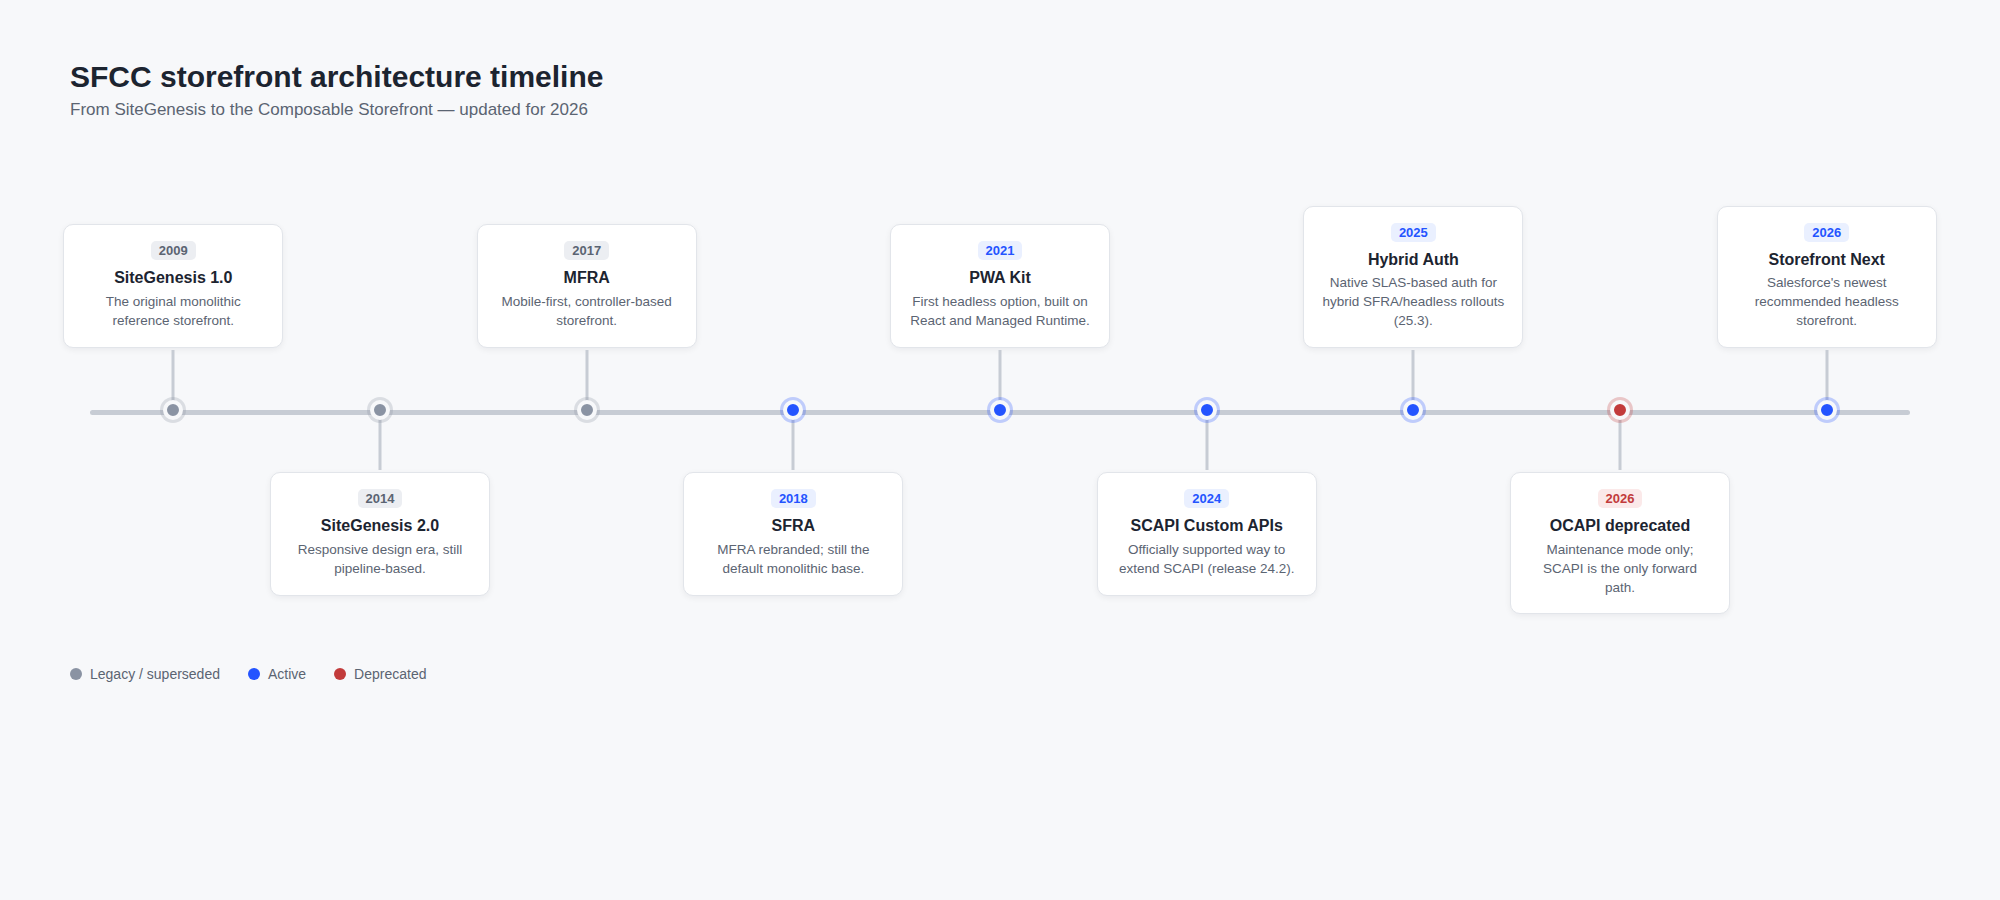
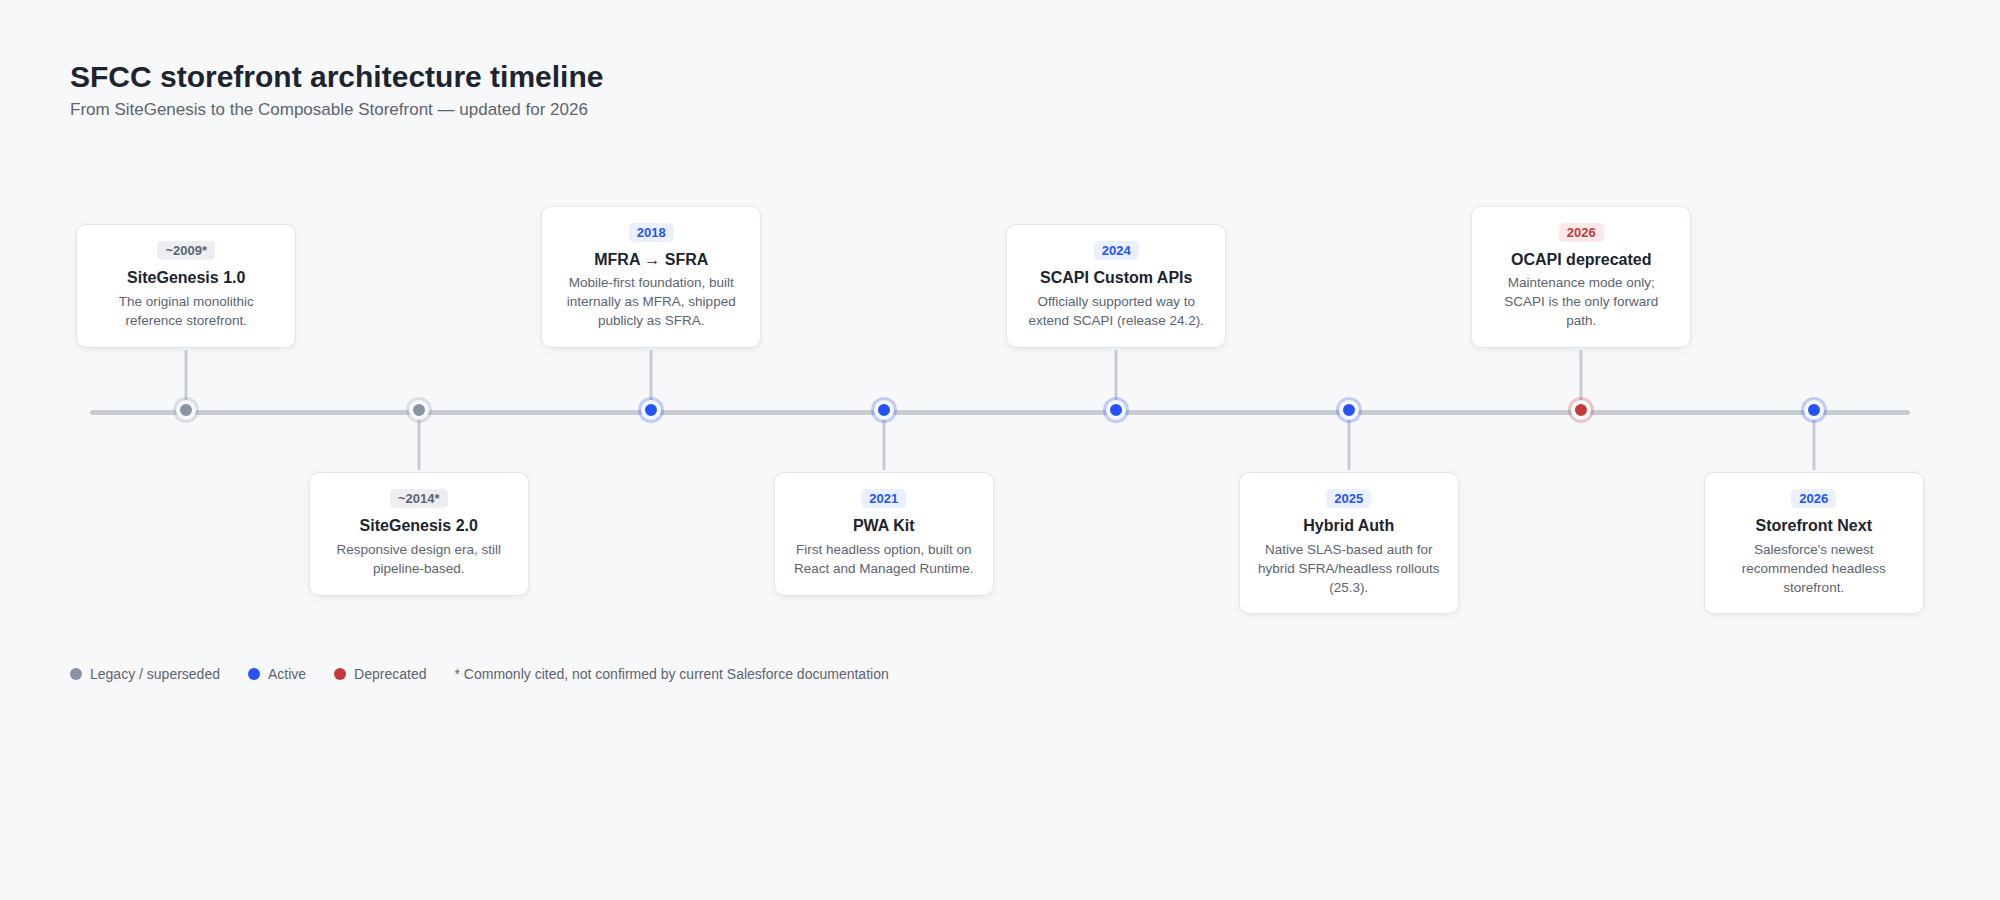
Correct claims a deep fact-check couldn't confirm against primary sources
Three parallel research agents checked every dated/technical claim in
the article against Salesforce's own Help/Developer docs rather than
this site's internal cross-references. Findings:

- The article contradicted itself: body text said MFRA was "born" in
  2016, the timeline diagram said 2017. Neither year has a primary
  source — current Salesforce SFRA docs don't use "MFRA" at all, only
  confirming SFRA's 2018 launch as SiteGenesis's direct successor.
  Decoupled MFRA's name from any specific year in both the body text
  and a regenerated timeline diagram, anchored on the confirmed 2018
  date.
- SiteGenesis 1.0/2.0's 2009/2014 dates are consistently repeated
  across secondary blogs but have no official source either; the
  timeline now marks them as commonly cited but unconfirmed rather
  than asserting them as fact.
- "Since 2020, SFRA compatibility is enough for SiteGenesis" traced
  circularly back to this same site with no independent source for
  the year — removed the year, kept the general claim.
- The native Order Management actions claim was real but needed two
  missing details: it requires a connected Salesforce Order
  Management org, and the shipping PWA Kit package was still
  preview/nightly at fact-check time.

Everything else checked out, including several claims independently
re-confirmed on primary Salesforce pages rather than only this site's
own prior articles (notably OCAPI's April 2026 deprecation date).

diff --git a/docs/content/sitegenesis-vs-sfra-vs-pwa-refresh-2026-07.md b/docs/content/sitegenesis-vs-sfra-vs-pwa-refresh-2026-07.md
@@ -38,7 +38,15 @@ changes — rather than a deep dive that would expand this refresh beyond its in
 | YouTube URL artifact | `feature=emb\_title` (WordPress-migration escaped underscore) | Fixed to `feature=emb_title` |
 | Timeline diagram | 1024×660 PNG, stops at "PWA Kit in 2021" | Regenerated at 2000×900 as an HTML-rendered illustration, extended through SCAPI Custom APIs (2024), Hybrid Auth (2025), the OCAPI deprecation (2026), and Storefront Next (2026); plain kebab-case filename |
 | Comparison table image | 1024×865 PNG encoding the stale 2022 feature list | Regenerated at 1500×1000 as an HTML-rendered table matching the corrected feature-parity statuses; plain kebab-case filename |
-| Front matter | `lastmod` 2026-07-07T18:30 | Bumped to 2026-07-09T12:41:29.000Z (`date`, `url`, and `takeaways` untouched — the existing takeaways still accurately describe the refreshed content) |
+| Front matter | `lastmod` 2026-07-07T18:30 | Bumped across three passes to 2026-07-09T13:40:46.000Z (`date`, `url`, and `takeaways` untouched — the existing takeaways still accurately describe the refreshed content) |
+| Intro paragraph | Marketing-fluff opener ("empowers retailers... harness the power of the cloud... world-class omnichannel experiences... effortlessly offer... seamless and personalised") | Rewritten to state facts plainly, matching this site's current voice |
+| Flattened callouts | Three `**Note:**`/`**NOTE:**` bold paragraphs (WordPress-migration artifacts) | Converted to proper `> [!NOTE]` callouts, matching the `[!WARNING]` callout already present in this same article |
+| Duplicated captions | Two plain-text lines ("Pipelines in SiteGenesis" / "Controllers in SiteGenesis") sitting directly below their `img-caption` shortcodes | Removed — the shortcode's own `caption=` attribute already communicates this |
+| "Since 2020, SFRA compatibility is enough" | Asserted as fact with a specific year | Year removed — a deep fact-check found no independent primary source, only circular citations back to this same site |
+| MFRA year (body text) | "In 2016 Demandware... so MFRA was 'born'" | Decoupled from a specific year — no primary source confirms 2016 (or the timeline's 2017); reworded to anchor only on the confirmed 2018 SFRA public launch |
+| Pipelines/MFRA year (body text) | "pipelines have disappeared in MFRA (2017)" | Year removed |
+| Timeline diagram (2nd revision) | v1 regeneration still asserted SiteGenesis 1.0 (2009), SiteGenesis 2.0 (2014), and a separate "MFRA (2017)" node as hard fact | Regenerated again: SiteGenesis years marked `~YYYY*` with a legend caveat ("commonly cited, not confirmed by current Salesforce documentation"); MFRA and SFRA merged into one node dated 2018 (the one year with a primary source) |
+| PWA Kit Order Management claim | "native Order Management actions now ship inside the PWA Kit's own default implementation" | Reworded to name the specific actions (tracking, cancelling, returning) and flag that it requires a connected Salesforce Order Management org and traces to a July 2026 release note (the shipping npm package was still preview/nightly at fact-check time) |
 
 ## Fact-check notes
 
@@ -91,6 +99,87 @@ changes — rather than a deep dive that would expand this refresh beyond its in
 - **"Missing features" checklist device**: per the site owner's explicit decision, the
   struck-through checklist format is kept (not restructured to prose), with all six items
   refreshed to their actual 2026 status rather than the binary "missing" framing from 2022.
+
+## Voice audit (2026-07-09)
+
+After the initial refresh, a full-article voice pass compared the piece against this site's
+most recently refreshed articles. The OCAPI/SCAPI and feature-parity sections had already been
+line-edited during the refresh itself; this pass covered the untouched 2022 sections. Findings
+and fixes are in the "Old vs new behavior" table above (intro paragraph, flattened callouts,
+duplicated captions, and roughly a dozen passive/nominalized sentences in the Best Practices,
+Development & Updates, React.JS, and Progressive Web Apps sections). No facts, structure, or
+section headings changed in this pass — see `human-prose-editing`, `anti-ai-writing`, and
+`beginner-technical-writing` skill guidance for the criteria applied.
+
+## Deep fact-check (2026-07-09)
+
+A second, independent fact-check pass ran three parallel research agents against primary
+Salesforce sources (Help, Developer docs, official release notes and press releases) — not
+just the internal cross-references used during the initial refresh. Results:
+
+**Corrected:**
+
+- **MFRA's specific year (2016 in the body text vs. 2017 in the timeline diagram)** — this was a
+  real internal contradiction. Neither year has a primary source: Salesforce's current SFRA FAQ
+  and overview docs don't use the term "MFRA" at all — they state SFRA launched in 2018,
+  succeeding SiteGenesis directly. (MFRA itself is not disputed — it's confirmed independently as
+  a real internal alpha/beta-phase name for the same mobile-first foundation, per site-owner
+  first-hand knowledge — only the specific *year* it was known by that name is unconfirmable.)
+  Fixed by decoupling the MFRA name from any specific year and anchoring only on the
+  primary-sourced 2018 SFRA launch, in both the body text and the regenerated timeline diagram.
+- **SiteGenesis 1.0 (2009) and SiteGenesis 2.0 (2014)** — these specific years are repeated
+  consistently across secondary blogs (Elastic Path, Swanky Agency, Ranosys, 64Labs) but no
+  official Salesforce/Demandware document confirms either one. Rather than assert them as hard
+  fact or strip them out, the regenerated timeline marks them `~YYYY*` with a legend note:
+  "commonly cited, not confirmed by current Salesforce documentation."
+- **"Since 2020, SFRA compatibility is enough for SiteGenesis cartridges"** — every source
+  repeating this specific "2020" framing traced back circularly to this same blog, not an
+  independent Salesforce source. The general claim (SiteGenesis cartridge support no longer
+  required) is left in place since nothing contradicts it, but the unconfirmable year is removed.
+- **PWA Kit native Order Management actions** — real and precisely dated (a 7/7/2026 entry in the
+  official Composable Storefront release notes, confirmed via `developer.salesforce.com/docs/commerce/pwa-kit-managed-runtime/references/about-pwa-kit-managed-runtime/about.html`
+  and the companion `order-mgmt.html` guide), but two nuances were missing from the original
+  wording: the actions (tracking, cancelling, returning orders) require a storefront connected to
+  a separate Salesforce Order Management org — this isn't a self-contained OMS inside PWA Kit —
+  and the PWA Kit npm package shipping this (3.19) was still at `preview`/nightly status as of the
+  fact-check date (stable was 3.18.1, May 22 2026). Reworded to name the specific actions and the
+  SOM dependency.
+
+**Independently confirmed (no changes needed):**
+
+- OCAPI's April 2026 deprecation — now confirmed directly on a genuine Salesforce page
+  (`developer.salesforce.com/docs/commerce/commerce-api/guide/why-use-scapi.html`: *"OCAPI is
+  marked deprecated as of April 2026"*), not just via the internal cross-link to
+  `in-the-ring-ocapi-versus-scapi`.
+- Demandware acquisition: announced June 1 2016
+  (`salesforce.com/news/press-releases/2016/06/01/...`), closed July 11 2016 (confirmed via a
+  second official Salesforce press release).
+- PWA Kit released 2021; SCAPI Custom APIs GA in release 24.2 (2024); Hybrid Auth shipped in
+  release 25.3 (2025) and replaces the Plugin SLAS cartridge (an official Salesforce cartridge,
+  not third-party) — all confirmed against official Salesforce Help/Developer docs.
+- Storefront Next: confirmed GA (not beta) via the official B2C Commerce June '26 release blog,
+  and confirmed as the "Recommended option" ranked ahead of SFRA on the "Choose Your B2C
+  Commerce Storefront Type" page.
+- `getUrlMapping` (SEO URL Configuration bullet) is correctly attributed to the Shopper SEO API.
+  `uploadCustomSitemapAndTriggerSitemapGeneration` (Sitemap bullet) exists exactly as named, but
+  technically belongs to a separate Admin "SEO" API family, not "Shopper SEO" — this article's
+  wording never asserted the "Shopper SEO" attribution for that specific endpoint, so no edit was
+  needed here (the misattribution exists only on a *different* post, `mastering-sitemaps-in-sfcc`,
+  which is out of scope for this refresh).
+- No native SCAPI A/B-testing/experimentation endpoint exists as of the current SCAPI release
+  notes (checked through 07/07/2026) — the "still missing" framing holds.
+- Personalisation and Page Designer headless support: confirmed added in 2023 specifically (PWA
+  Kit 2.7.0 release, March 3 2023, for Page Designer; the Shopper Context API's Business Manager
+  self-service toggle shipped in the 23.3 platform release).
+- Managed Runtime's inclusion in the standard licence at no extra cost: confirmed via an official
+  Salesforce Trailhead module (current licence branding is "Agentforce Commerce for B2C" — the
+  article's generic "included in the licence" wording doesn't name a specific licence, so it
+  didn't need changing).
+- Mobify's acquisition (announced September 4 2020) and its lineage into PWA Kit; Adyen's
+  PWA-Kit-specific ("Composable Storefront Headless") integration on the AppExchange; and
+  `pwa-kit.mobify-storefront.com` as genuine, currently-maintained Salesforce demo infrastructure
+  (the "Mobify" branding in the domain is a deliberately retained legacy naming convention, not a
+  stale leftover) — all confirmed.
 
 ## Link audit (2026-07-09)
 

diff --git a/src/content/posts/sitegenesis-vs-sfra-vs-pwa/index.md b/src/content/posts/sitegenesis-vs-sfra-vs-pwa/index.md
@@ -4,7 +4,7 @@ description: >-
   Those interested in Salesforce B2C Commerce Cloud will hear the term
   SiteGenesis and SFRA (and PWA). But what is the difference?
 date: '2022-07-17T13:42:22.000Z'
-lastmod: '2026-07-09T13:26:49.000Z'
+lastmod: '2026-07-09T13:40:46.000Z'
 url: /sitegenesis-vs-sfra-vs-pwa/
 draft: false
 heroImage: sfra-vs-sitegenesis-965c09b9a6.jpg
@@ -33,7 +33,7 @@ But choosing SFCC is only step one. There's a second big decision to make: **on 
 
 Here's how storefront architecture on Salesforce B2C Commerce Cloud has moved over the years:
 
-{{< img-caption src="sfcc-storefront-timeline.png" alt="SFCC storefront timeline: SiteGenesis 1.0 in 2009, SiteGenesis 2.0 in 2014, MFRA in 2017 rebranded to SFRA in 2018, PWA Kit in 2021, SCAPI Custom APIs in 2024, Hybrid Auth in 2025, and OCAPI deprecation alongside Storefront Next in 2026." caption="Storefront architecture on SFCC didn't stop moving after the PWA Kit — SCAPI, Hybrid Auth, the OCAPI deprecation, and Storefront Next all landed since." >}}
+{{< img-caption src="sfcc-storefront-timeline.png" alt="SFCC storefront timeline: SiteGenesis 1.0, then SiteGenesis 2.0, then MFRA/SFRA (SFRA launched 2018), PWA Kit in 2021, SCAPI Custom APIs in 2024, Hybrid Auth in 2025, and OCAPI deprecation alongside Storefront Next in 2026." caption="Storefront architecture on SFCC didn't stop moving after the PWA Kit — SCAPI, Hybrid Auth, the OCAPI deprecation, and Storefront Next all landed since. Early SiteGenesis/MFRA years are widely cited but not confirmed by current Salesforce documentation; 2018 onward is sourced directly." >}}
 
 ## SiteGenesis
 
@@ -58,7 +58,7 @@ Salesforce B2C Commerce Cloud comes with a lot of features out-of-the-box. But i
 > [!NOTE]
 > The above is also true for other platforms besides SFCC.
 
-But since 2020, it is no longer required to build for SiteGenesis; SFRA compatibility is enough. This shows that Salesforce wants to push new (and existing) clients away from using SiteGenesis.
+It's no longer required to build for SiteGenesis; SFRA compatibility is enough. This shows that Salesforce wants to push new (and existing) clients away from using SiteGenesis.
 
 ### Pipelines VS Controllers
 
@@ -66,7 +66,7 @@ But since 2020, it is no longer required to build for SiteGenesis; SFRA compatib
 
 {{< img-caption src="controllers-130298bfb4.png" alt="Controller-based storefront code replacing pipelines in newer architectures." caption="Controller-based development was one of the key shifts that came with newer storefront stacks." >}}
 
-Looking at the timeline, you will see that pipelines have disappeared in MFRA (2017). This is a legacy way of development within Salesforce B2C Commerce Cloud and has been replaced by JavaScript (controller-type) development.
+Pipelines disappeared with MFRA. This is a legacy way of development within Salesforce B2C Commerce Cloud and has been replaced by JavaScript (controller-type) development.
 
 It is time to migrate if you are still using SiteGenesis with pipelines in your project/site since new features will not be available in this framework.
 
@@ -79,7 +79,7 @@ It is time to migrate if you are still using SiteGenesis with pipelines in your 
 
 This part of the article will cover both MFRA and [SFRA](https://developer.salesforce.com/docs/commerce/sfra/guide/sfra-overview.html) as they are the same. You can see MFRA as the ALPHA/BETA version of SFRA or simply as a rebranding.
 
-In 2016 Demandware (before [Salesforce acquired Demandware](https://www.salesforce.com/news/press-releases/2016/06/01/salesforce-signs-definitive-agreement-to-acquire-demandware/) in the same year) saw an increased need for high-quality mobile experiences. SiteGenesis was not up for the task, so MFRA was "born." A new modern mobile-first web foundation was created that used technologies such as Bootstrap, HTML5, and CSS3, making it much easier to create mobile experiences.
+Around the time of [Salesforce's 2016 acquisition of Demandware](https://www.salesforce.com/news/press-releases/2016/06/01/salesforce-signs-definitive-agreement-to-acquire-demandware/), the platform saw an increased need for high-quality mobile experiences. SiteGenesis was not up for the task, so a new mobile-first foundation — known at the time as MFRA — was built using technologies such as Bootstrap, HTML5, and CSS3, making it much easier to create mobile experiences. It shipped publicly as SFRA in 2018.
 
 These technologies also brought better storefront performance and UX along with them.
 
@@ -153,7 +153,7 @@ There's a [podcast episode on this topic](https://www.youtube.com/watch?v=eOFC5r
 
 ### Third-party integrations (PWA Kit & Managed Runtime)
 
-That gap has narrowed since this article was first written, but it hasn't closed. A handful of vendors now build packages aimed specifically at the PWA Kit — Adyen's headless integration is one example — and Salesforce keeps filling first-party gaps itself: Hybrid Auth replaced the old Plugin SLAS setup, and native Order Management actions now ship inside the PWA Kit's own default implementation. Still, no official Salesforce source grades how mature this ecosystem actually is, and from what this site has seen, broad, SFRA-style plug-and-play coverage still isn't there. Budget the extra time and vendor conversations an SFRA project rarely needs.
+That gap has narrowed since this article was first written, but it hasn't closed. A handful of vendors now build packages aimed specifically at the PWA Kit — Adyen's headless integration is one example — and Salesforce keeps filling first-party gaps itself: Hybrid Auth replaced the old Plugin SLAS setup, and a July 2026 release note adds default Order Management actions (tracking, cancelling, returning) to PWA Kit — provided your storefront is connected to a Salesforce Order Management org. Still, no official Salesforce source grades how mature this ecosystem actually is, and from what this site has seen, broad, SFRA-style plug-and-play coverage still isn't there. Budget the extra time and vendor conversations an SFRA project rarely needs.
 
 ### Missing out-of-the-box features
 
